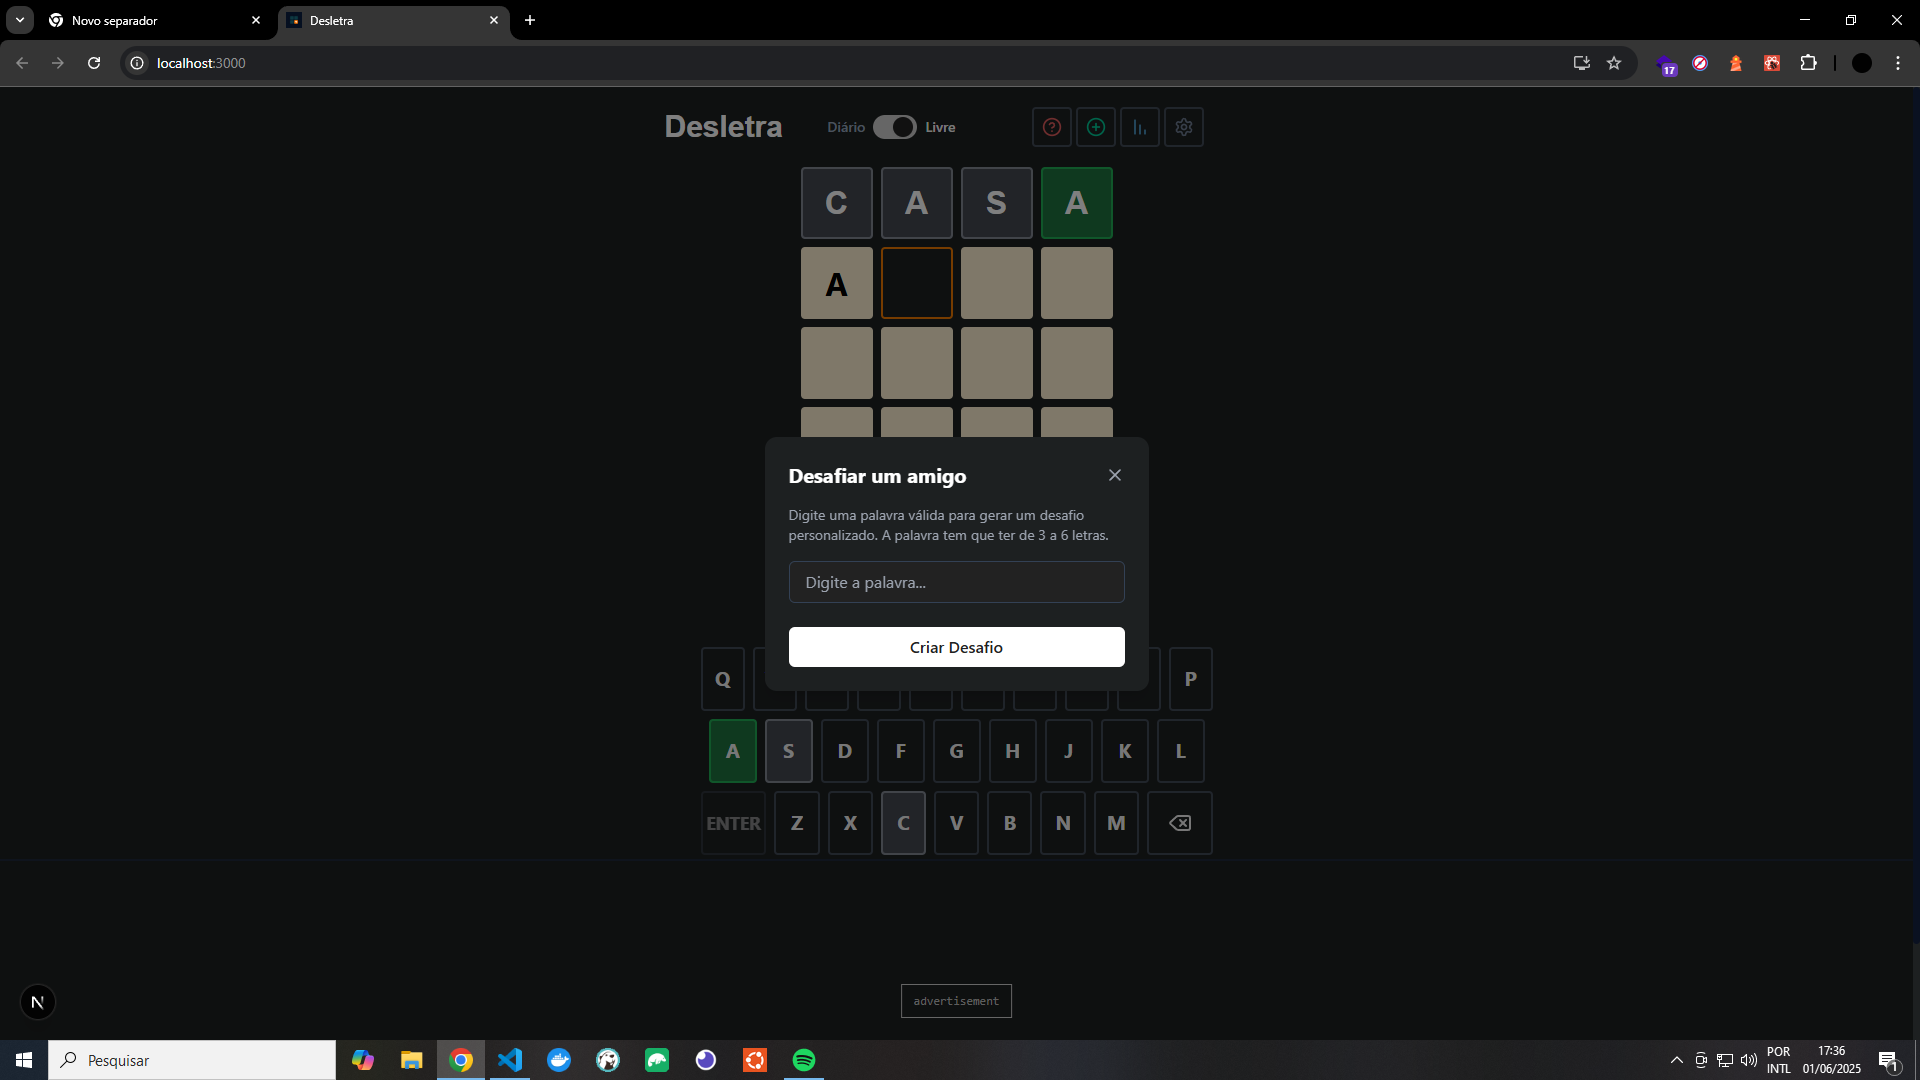
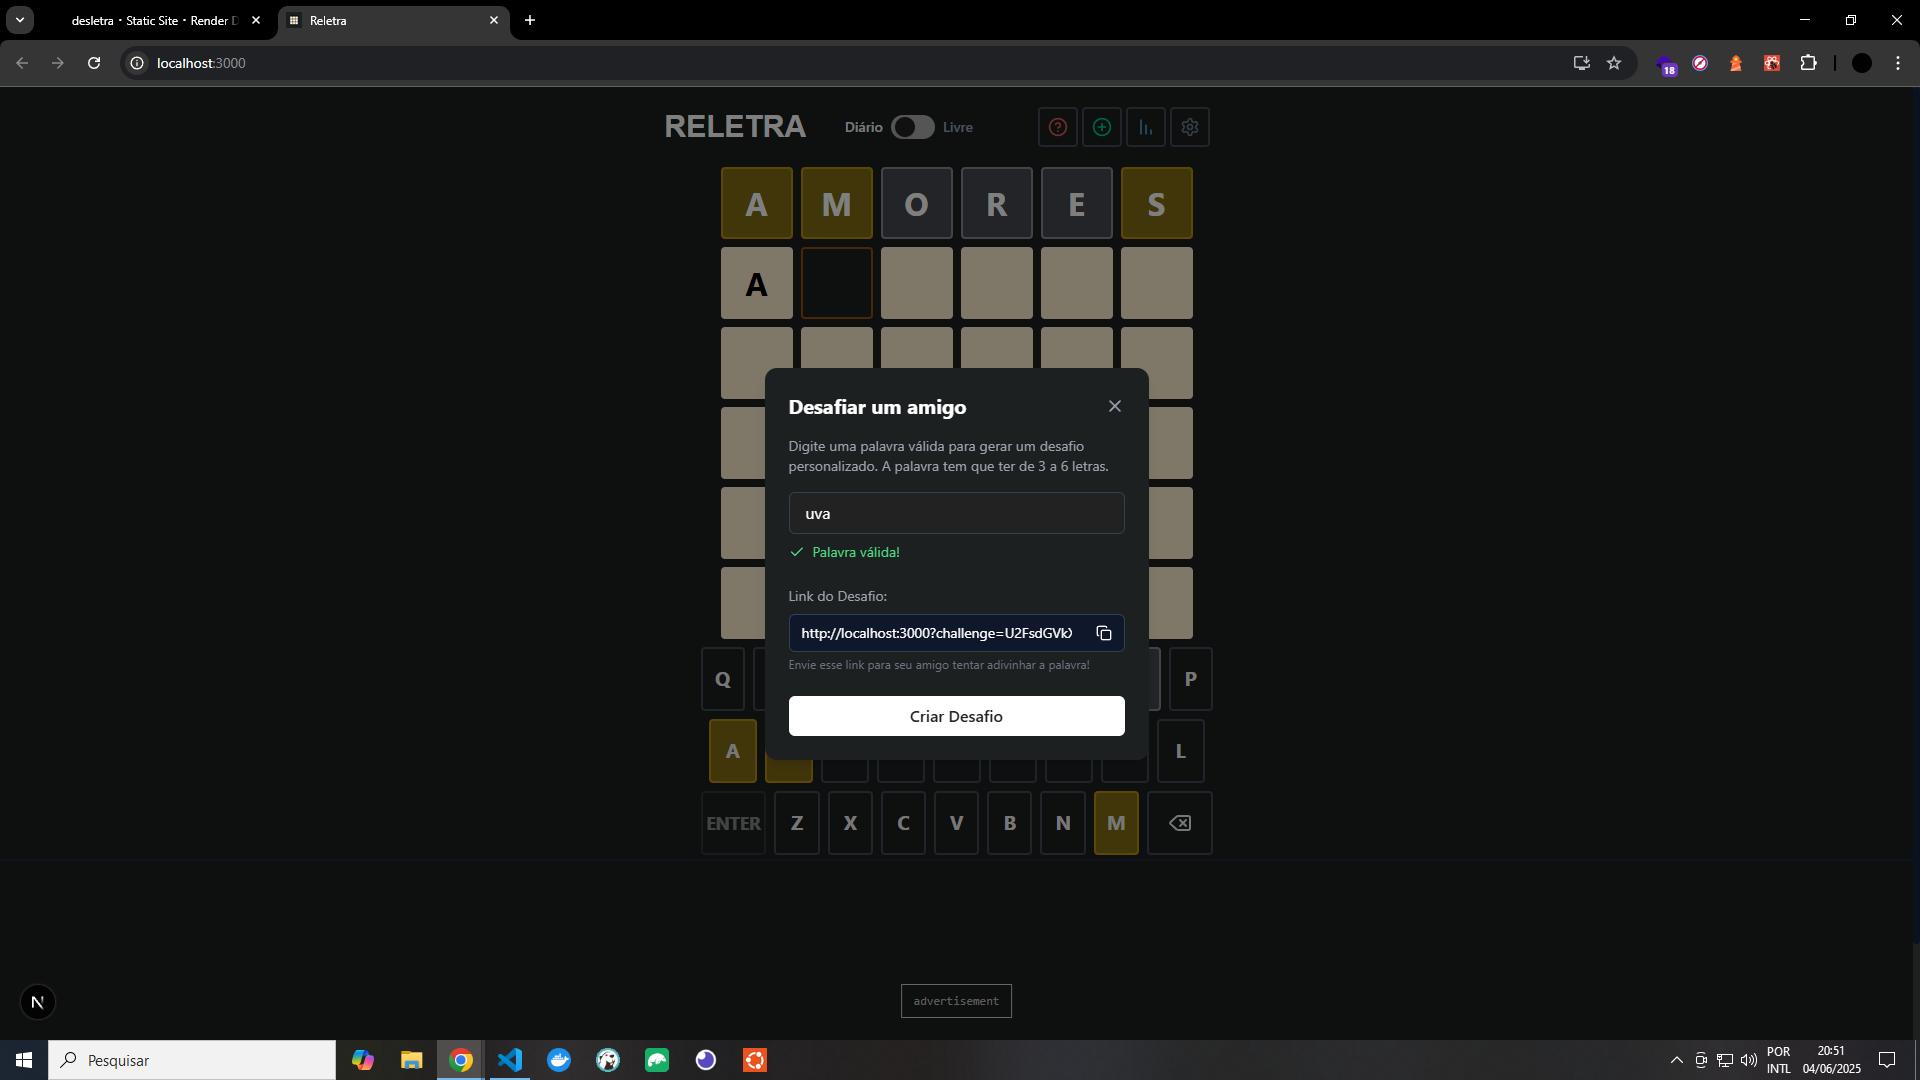
alter name

diff --git a/app/layout.tsx b/app/layout.tsx
@@ -4,8 +4,8 @@ import './globals.css'
 import AdSense from "../components/ad-sense";
 
 export const metadata: Metadata = {
-  title: 'Desletra',
-  description: 'Desafie-se a desletrar uma nova palavra a cada dia!',
+  title: 'Reletra',
+  description: 'Desafie seu vocabulário.',
   generator: 'theu',
 }
 
@@ -19,20 +19,20 @@ export default function RootLayout({
       <head>
         <meta name="theme-color" content="#020817" />
         <meta name="robots" content="index, follow" />
-        <link rel="canonical" href="https://desletra.onrender.com/" />
-        <meta name="keywords" content="desletra, desletrar, palavras" />
+        <link rel="canonical" href="https://reletra.onrender.com/" />
+        <meta name="keywords" content="reletra, palavras, wordle, palavra" />
         <link rel="icon" type="image/png" sizes="96x96" href="/assets/favicon-96x96.png" />
         <link rel="icon" type="image/svg+xml" href="/assets/favicon.svg" />
         <link rel="apple-touch-icon" sizes="180x180" href="/assets/apple-touch-icon.png" />
-        <meta name="apple-mobile-web-app-title" content="Desletra" />
-        <meta name="application-name" content="Desletra" />
+        <meta name="apple-mobile-web-app-title" content="Reletra" />
+        <meta name="application-name" content="Reletra" />
         {/* Open Graph */}
-        <meta property="og:title" content="Desletra" />
-        <meta property="og:description" content="Desafie-se a desletrar uma nova palavra a cada dia!" />
-        <meta property="og:image" content="https://desletra.onrender.com/assets/og-image.png" />
+        <meta property="og:title" content="Reletra" />
+        <meta property="og:description" content="Desafie seu vocabulário." />
+        <meta property="og:image" content="https://reletra.onrender.com/assets/og-image.png" />
         <meta property="og:image:width" content="1200" />
         <meta property="og:image:height" content="630" />
-        <meta property="og:url" content="https://desletra.onrender.com/" />
+        <meta property="og:url" content="https://reletra.onrender.com/" />
         <meta property="og:type" content="website" />
         {/* PWA / Icons */}
         <link rel="apple-touch-icon" href="/assets/apple-icon.png" sizes="180x180" />

diff --git a/app/about/page.tsx b/app/about/page.tsx
@@ -4,8 +4,8 @@ import { Metadata } from 'next'
 import { ArrowLeft, X } from "lucide-react"
 
 export const metadata: Metadata = {
-  title: 'Sobre - Desletra',
-  description: 'Saiba mais sobre o projeto Desletra.',
+  title: 'Sobre - Reletra',
+  description: 'Saiba mais sobre o projeto Reletra.',
 }
 
 export default function About() {
@@ -19,9 +19,9 @@ export default function About() {
           </button>
         </Link>
 
-        <h1 className="text-2xl font-bold mb-4 text-center">Sobre o Desletra</h1>
+        <h1 className="text-2xl font-bold mb-4 text-center">Sobre o Reletra</h1>
         <p className="mb-3">
-          <strong>Desletra</strong> é um jogo de palavras inspirado em desafios como Wordle,
+          <strong>Reletra</strong> é um jogo de palavras inspirado em desafios como Wordle,
           mas com uma proposta única: desvendar a palavra oculta usando lógica e tentativas
           limitadas. Cada palpite revela dicas sobre quais letras estão corretas e em qual posição.
           O jogo utiliza um vocabulário vasto e refinado, semelhante ao de um dicionário, e permite,
@@ -35,7 +35,7 @@ export default function About() {
 
         <h3 className="text-lg font-semibold mt-6 mb-2 text-white">Privacidade</h3>
         <p className="text-sm text-gray-400 mb-4">
-          O Desletra respeita sua privacidade. Alguns dados anônimos são coletados para fins estatísticos e o jogo pode exibir anúncios durante o uso. Nenhuma informação pessoal ou confidencial é coletada, armazenada ou compartilhada.
+          O Reletra respeita sua privacidade. Alguns dados anônimos são coletados para fins estatísticos e o jogo pode exibir anúncios durante o uso. Nenhuma informação pessoal ou confidencial é coletada, armazenada ou compartilhada.
         </p>
         <p className="mb-3">
           Desenvolvido com 💙 por um entusiasta de jogos web e desenvolvimento de software.
@@ -52,7 +52,7 @@ export default function About() {
           </a>
         </p>
         <p className="text-sm text-gray-400 text-center mt-4">
-          © {new Date().getFullYear()} Desletra
+          © {new Date().getFullYear()} Reletra
         </p>
       </div>
     </main>

diff --git a/components/header.tsx b/components/header.tsx
@@ -60,8 +60,8 @@ export default function Header({
     <header className="w-full flex flex-col justify-around items-center mt-4 mb-4">
       <div className="w-full max-w-[600px] flex flex-row justify-between items-center px-2 [@media(max-width:500px)]:flex-col">
         {/* Título central */}
-        <h1 className="text-3xl font-bold text-center font-space text-white">
-          Desletra
+        <h1 className="text-3xl font-bold text-center font-montserrat text-white">
+          RELETRA
         </h1>
 
         <div className="w-full max-w-[500px] flex justify-around items-center px-2">

diff --git a/app/globals.css b/app/globals.css
@@ -1,9 +1,8 @@
 @tailwind base;
 @tailwind components;
 @tailwind utilities;
-@import url('https://fonts.googleapis.com/css2?family=Source+Code+Pro:ital,wght@0,200..900;1,200..900&display=swap');
 @import url('https://fonts.googleapis.com/css2?family=Roboto:ital,wght@0,100..900;1,100..900&display=swap');
-@import url('https://fonts.googleapis.com/css2?family=Space+Grotesk:wght@300..700&display=swap');
+@import url('https://fonts.googleapis.com/css2?family=Montserrat:ital,wght@0,100..900;1,100..900&display=swap');
 
 body {
   background: #1d2021;

diff --git a/app/page.tsx b/app/page.tsx
@@ -53,7 +53,7 @@ export default function Page() {
 
   // Carregar estatísticas do localStorage
   useEffect(() => {
-    const estatisticasSalvas = localStorage.getItem("desletra-statistics")
+    const estatisticasSalvas = localStorage.getItem("reletra-statistics")
     if (estatisticasSalvas) setStatistics(JSON.parse(estatisticasSalvas))
   }, [])
 

diff --git a/tailwind.config.ts b/tailwind.config.ts
@@ -11,9 +11,8 @@ const config: Config = {
   theme: {
   	extend: {
 			fontFamily: {
-				code: ['Source Code Pro', 'monospace'],
 				roboto: ['Roboto', 'sans-serif'],
-				space: ["Space Grotesk", 'sans-serif']
+				montserrat: ["Montserrat", 'sans-serif']
     	},
   		colors: {
   			background: 'hsl(var(--background))',

diff --git a/app/changelog/page.tsx b/app/changelog/page.tsx
@@ -5,8 +5,8 @@ import { Metadata } from 'next'
 import { ArrowLeft } from "lucide-react"
 
 export const metadata: Metadata = {
-  title: 'Changelog - Desletra',
-  description: 'Changelog do Desletra.',
+  title: 'Changelog - Reletra',
+  description: 'Changelog do Reletra.',
 }
 
 interface CardProps {

diff --git a/utils/localStorage-utils.ts b/utils/localStorage-utils.ts
@@ -6,7 +6,7 @@ type GameStatistics = {
   distribution: number[]
 }
 
-const STATS_KEY = "desletra-statistics"
+const STATS_KEY = "reletra-statistics"
 const GAME_KEY = "gameStored"
 
 export function getStatistics(): GameStatistics | null {

diff --git a/next-sitemap.config.js b/next-sitemap.config.js
@@ -1,6 +1,6 @@
 // next-sitemap.config.js
 module.exports = {
-  siteUrl: 'https://desletra.onrender.com',
+  siteUrl: 'https://reletra.onrender.com',
   generateRobotsTxt: true,
   outDir: './out',
 };

diff --git a/README.md b/README.md
@@ -22,7 +22,31 @@ Open [http://localhost:3000](http://localhost:3000) with your browser to see the
 
 ![Logo](docs/logo.png "logo")
 
-Palavras Cruzadas Codificadas é um desafio diário de lógica onde você precisa decifrar um código secreto para revelar as palavras cruzadas corretas. A cada dia, um novo tema é revelado (como “Frutas”), e as letras embaralhadas precisam ser trocadas até que todas as palavras façam sentido. Use dicas, raciocínio e estratégia para completar o tabuleiro!
+Reletra é um jogo de adivinhação de palavras inspirado no clássico Wordle, mas com novas possibilidades.
+As palavras variam de 3 a 6 letras (ou mais!) e você escolhe como quer jogar.
+
+🧩 Três modos de jogo:
+
+- Modo Diário: uma palavra nova por dia, igual para todos os jogadores.
+- Modo Livre: jogue quantas vezes quiser com palavras aleatórias.
+- Modo Desafio: crie uma palavra e envie para um amigo tentar adivinhar.
+
+🎯 Dois níveis de dificuldade:
+
+- Fácil: palavras mais curtas e comuns.
+- Difícil: palavras mais longas ou incomuns.
+
+🔡 Use lógica, intuição e vocabulário para descobrir a palavra secreta com o menor número de tentativas.
+Errou? Reletra.
+
+Reletra é um jogo simples e viciante onde seu desafio é descobrir a palavra certa, letra por letra.
+Use lógica, memória e um pouco de sorte para acertar antes que as tentativas acabem!
+
+🔡 Errou? Tente de novo.
+🔤 Acertou? Reletra outra!
+
+Com partidas rápidas e estimulantes, Reletra é perfeito para jogar no intervalo, na fila ou antes de dormir.
+Um passatempo inteligente para quem ama palavras.
 
 ## 🖼 Preview
 ![Screen 1](docs/preview.png "Screen 1")
